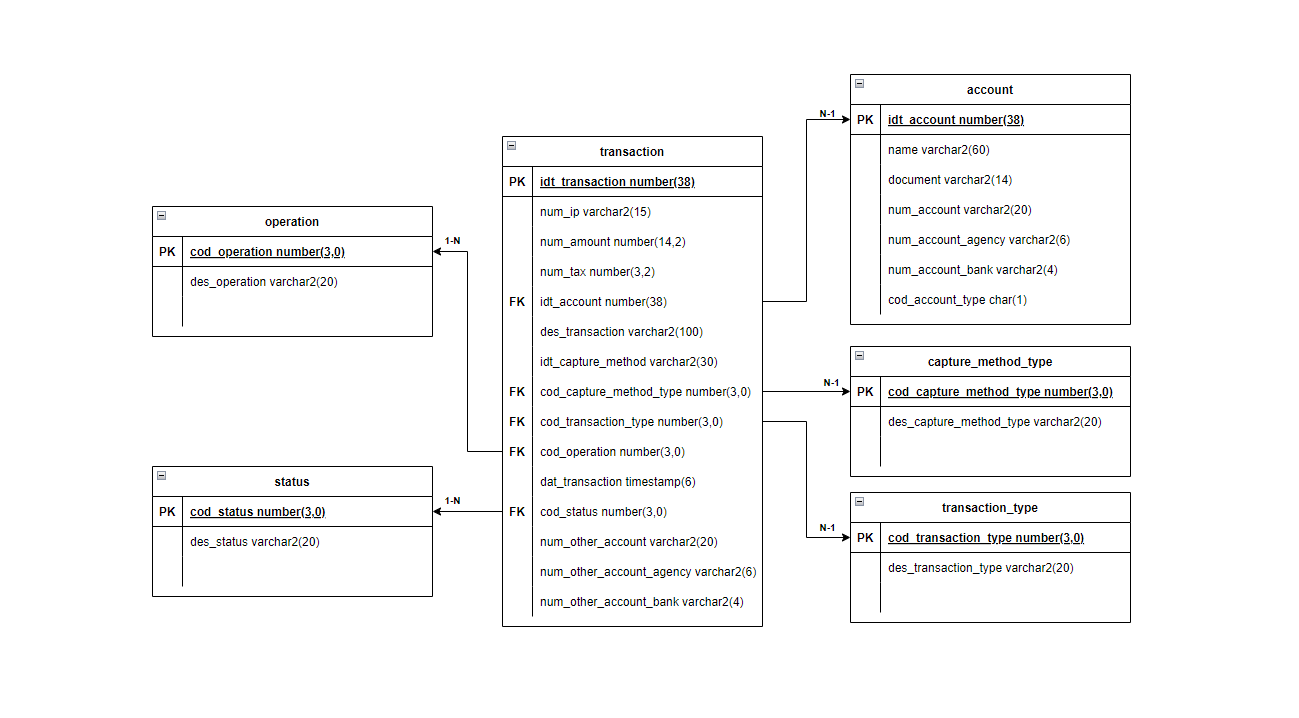
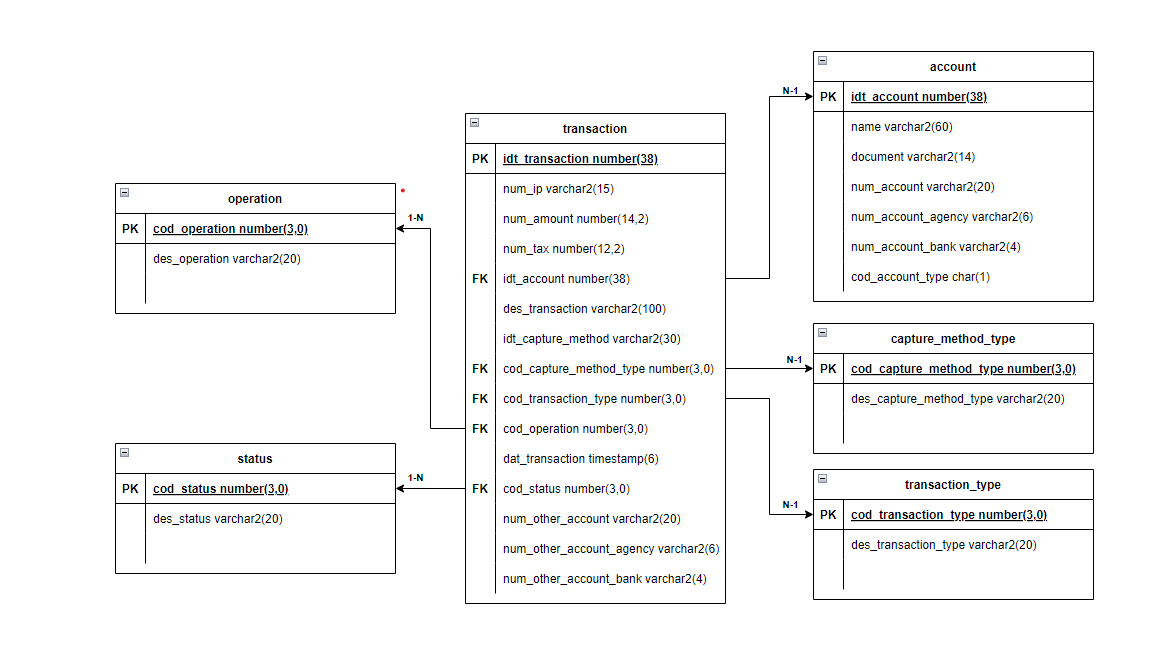
docs: adding swagger, contract and how to use, and change database img
RG-6424

diff --git a/README.md b/README.md
@@ -14,6 +14,8 @@ the API registers these transactions in the database for future treatment.
 - [Installation (Docker)](#running-docker);
 - [Database Connection](#database-connection);
 - [FlyWay Migration](#flyway-migration);
+- [Swagger Documentation And Contract](#swagger-documentation-and-contract);
+- [How to use](#how-to-use)
 
 ### Architecture
 
@@ -37,14 +39,17 @@ The status for transaction are:
 The transaction status always starts as pending and can go to success or cancelled, and cannot be changed later.
 
 ---
+
 ### Development Environment
 
 #### Running Docker
+
 - [Download and install Docker](https://docs.docker.com/get-docker/)
 - Run `docker-compose up` to create an instance of the oracle database.
 - Wait for the log `DATABASE IS READY TO USE!` before running the application or checking the database.
 
 #### Database Connection
+
 - If you find it necessary to consult the database and validate the connection:
 - HOST: localhost
 - Service Name: XEPDB1
@@ -54,15 +59,97 @@ The transaction status always starts as pending and can go to success or cancell
 - URL: jdbc:oracle:thin:@//localhost:1521/XEPDB1
 
 ##### Important
-In some database administration tools, the default connection is made using SID (System Identifier), which can be changed to URL or Service Name. However, if you are unable to connect using URL or Service Name, you should pay attention to the identifier of the PDB (Pluggable Database), which is typically set as SID connection like: `jdbc:oracle:thin:@localhost:1521:XEPDB1`, resulting in the [ORA-12505 error](https://docs.oracle.com/en/database/oracle/oracle-database/19/errmg/ORA-12500.html#GUID-BD6AAC21-3F15-4F70-B3C5-064ADCF5EC51), This occurs because of the use of " :  " in the connection with an unknown SID. In this case, it is necessary to use Service Name connection " / ". example: `jdbc:oracle:thin:@localhost:1521/XEPDB1`.
+
+In some database administration tools, the default connection is made using SID (System Identifier), which can be
+changed to URL or Service Name. However, if you are unable to connect using URL or Service Name, you should pay
+attention to the identifier of the PDB (Pluggable Database), which is typically set as SID connection
+like: `jdbc:oracle:thin:@localhost:1521:XEPDB1`, resulting in
+the [ORA-12505 error](https://docs.oracle.com/en/database/oracle/oracle-database/19/errmg/ORA-12500.html#GUID-BD6AAC21-3F15-4F70-B3C5-064ADCF5EC51),
+This occurs because of the use of " :  " in the connection with an unknown SID. In this case, it is necessary to use
+Service Name connection " / ". example: `jdbc:oracle:thin:@localhost:1521/XEPDB1`.
 
 ---
 
 ##### FlyWay Migration
 
-This repository contains the necessary files for performing a database migration using FlyWay. All version scripts are located in the `db/migration` directory and comply with the [naming scheme]((https://flywaydb.org/documentation/migrations#naming)) defined by FlyWay.
-For more detailed information about FlyWay and its commands, refer to the official [FlyWay documentation](https://flywaydb.org/documentation/).
+This repository contains the necessary files for performing a database migration using FlyWay. All version scripts are
+located in the `db/migration` directory and comply with
+the [naming scheme]((https://flywaydb.org/documentation/migrations#naming)) defined by FlyWay.
+For more detailed information about FlyWay and its commands, refer to the
+official [FlyWay documentation](https://flywaydb.org/documentation/).
 
-Running the application will activate FlyWay and create the schema present in [V1.1__MODELING_TABLES_RG_6401.sql](./src/main/resources/db/migration/V1.1__MODELING_TABLES_RG_6401.sql) and populate account using [V1.2__INSERT_TABLES_RG_6401.sql](./src/main/resources/db/migration/V1.2__INSERT_TABLES_RG_6401.sql).
+Running the application will activate FlyWay and create the schema present
+in [V1.1__MODELING_TABLES_RG_6401.sql](./src/main/resources/db/migration/V1.1__MODELING_TABLES_RG_6401.sql) and populate
+account using [V1.2__INSERT_TABLES_RG_6401.sql](./src/main/resources/db/migration/V1.2__INSERT_TABLES_RG_6401.sql).
 
 ---
+
+#### Swagger Documentation and Contract
+
+The repository provides Swagger documentation for its API endpoints and follows
+a [contract](./src/main/resources/static/dirt-api-contract.yaml) to ensure consistent
+communication between clients and the server. The Swagger documentation allows developers to explore and interact with
+the API, while the contract defines the expected request and response formats.
+
+Running the application the Swagger is available on: `http://localhost:15050/swagger-ui/index.html`
+
+---
+
+#### How to use
+
+The application allows you to submit new transactions for registration in the database. To ensure successful usage of
+this endpoint, follow these tips:
+
+- **To register a transaction:**
+    - Endpoint: `localhost:15050/transaction`
+    - Method: `POST`
+    - Request Body:
+    ```json
+      { 
+      "ip": "192.158.1.38", 
+      "amount": 99.99, 
+      "tax": 10.11, 
+      "accountId": 1,
+      "description": "Pagto*Manga Zé", 
+      "captureMethod": { 
+        "id": "123", 
+        "type": "WEB" 
+        }, 
+      "transactionType": "PIX", 
+      "operation": "CREDIT", 
+      "otherAccount": { 
+        "number": "1359764-2", 
+        "agency": "0001", 
+        "bankCode": "290" 
+        } 
+      }
+- Status Code: 201 - CREATED
+- Response:
+  ```json
+  {
+  "transactionIp": "192.158.1.38",
+  "status": "PENDING",
+  "transactionAmount": 99.99,
+  "transactionTax": 10.11,
+  "description": "Pagto*Manga Zé",
+  "transactionType": "PIX",
+  "account": {
+    "accountId": 1,
+    "document": "59805714004",
+    "accountName": "Han Solo",
+    "accountNum": "5840231-7",
+    "accountNumAgency": "0001",
+    "accountNumBank": "290",
+    "accountType": "F"
+     },
+  "captureMethod": {
+    "id": "123",
+    "type": "WEB"
+     },
+  "operation": "CREDIT",
+  "otherAccount": {
+    "number": "1359764-2",
+    "agency": "0001",
+    "bankcode": "290"
+    }
+  }
